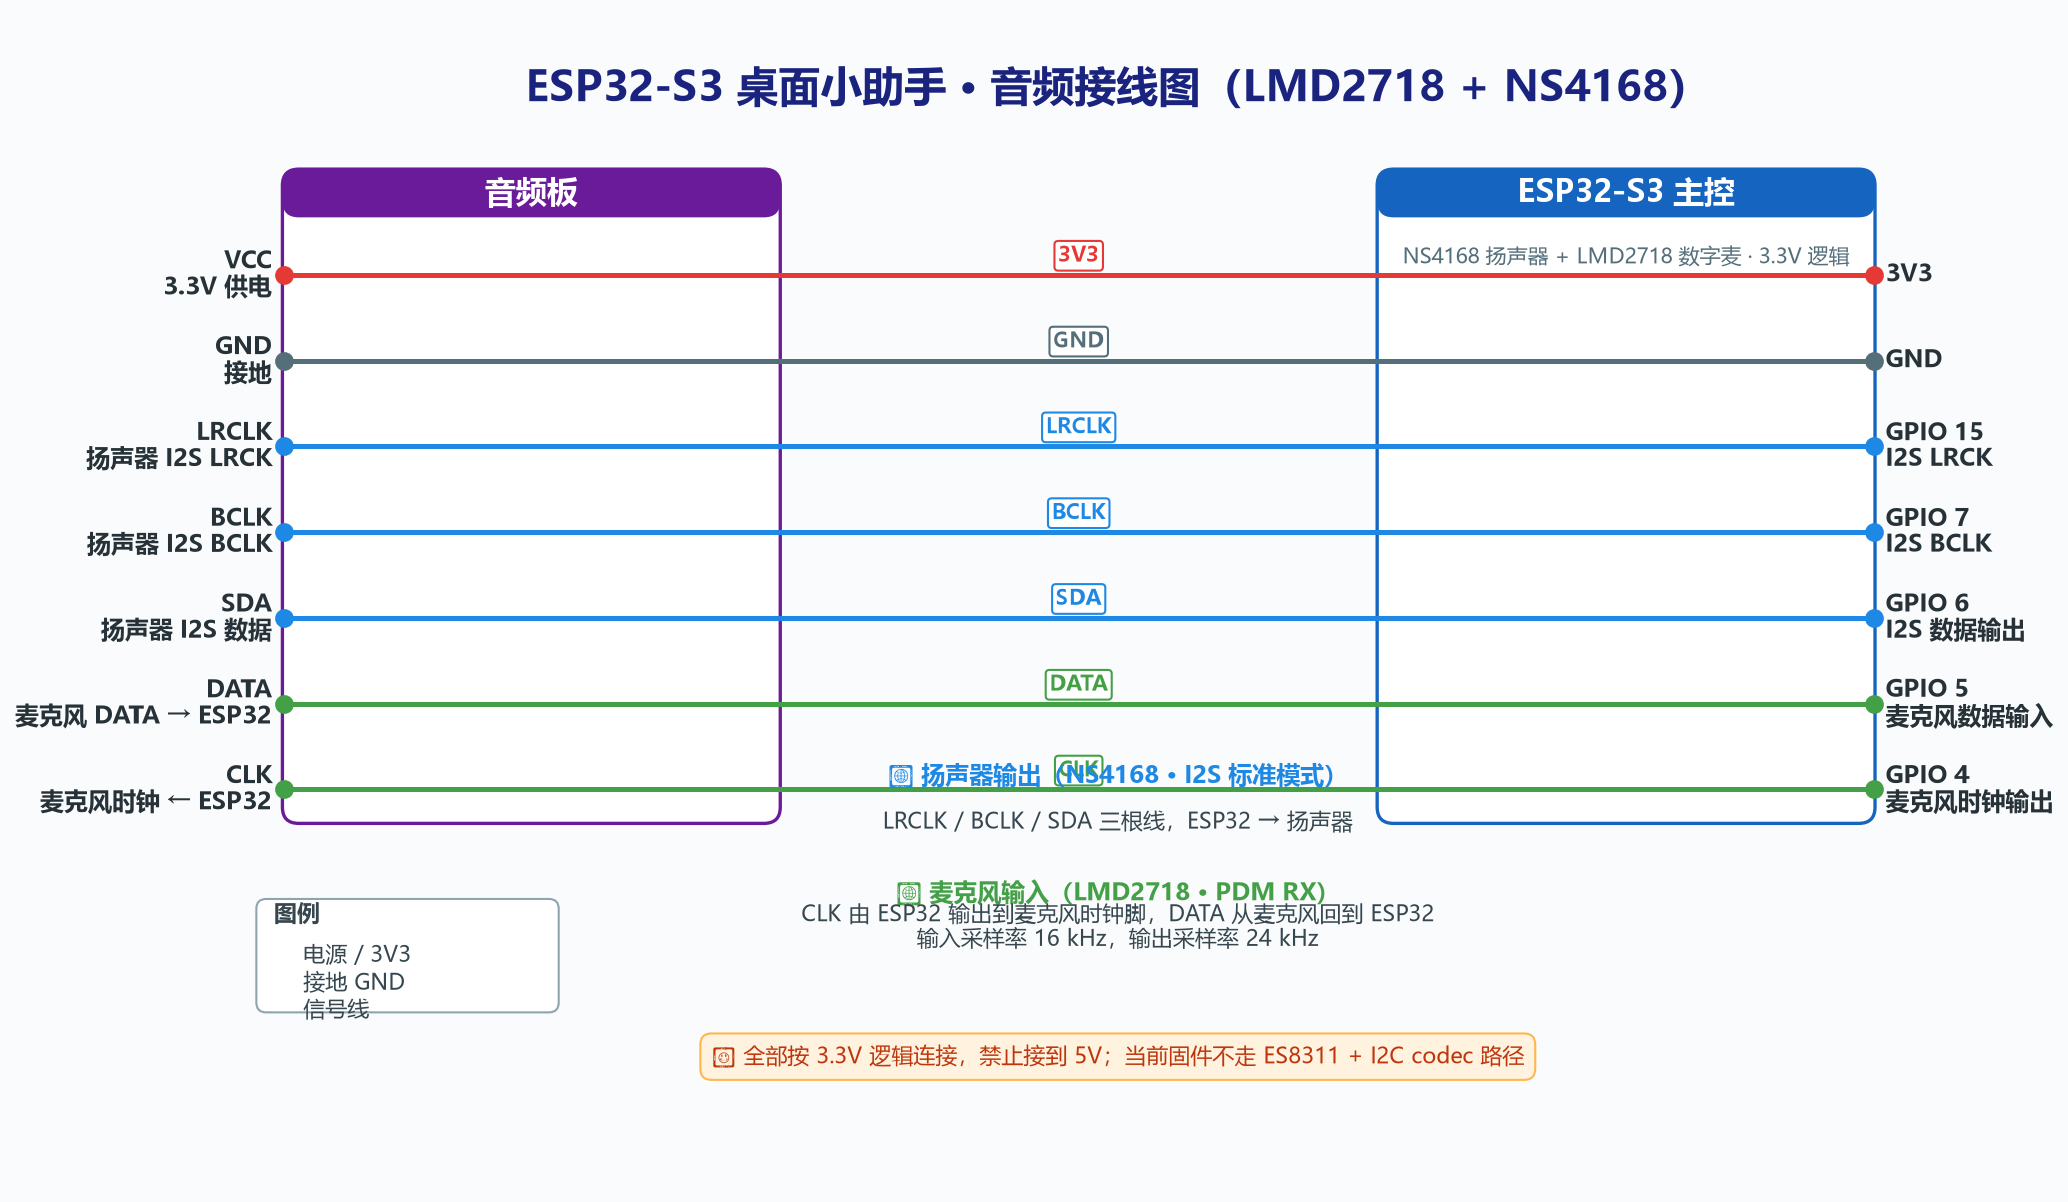
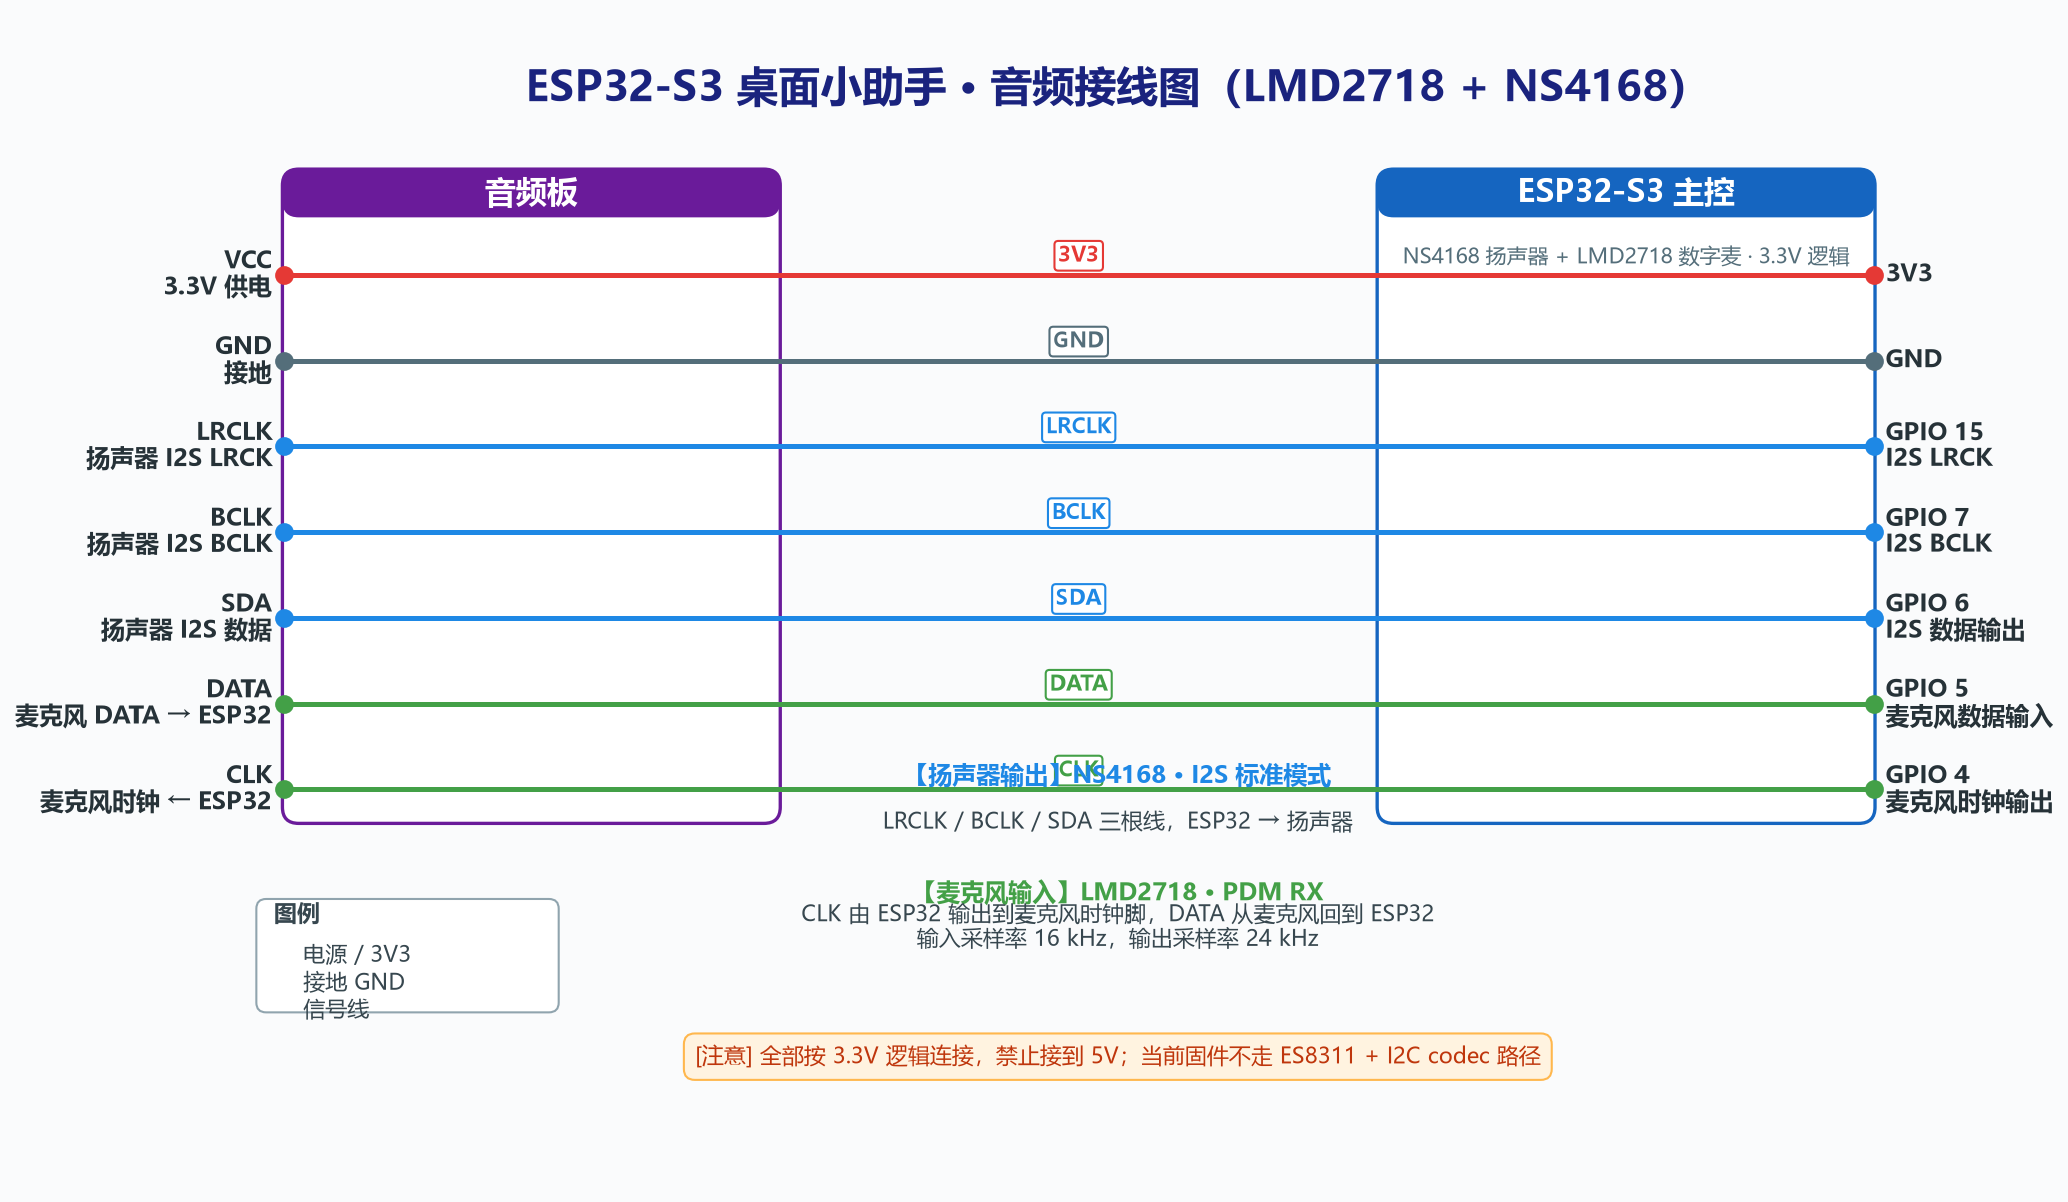
fix

Changed region(s): [[0.3095, 0.8619, 0.7737, 0.8927], [0.4333, 0.6156, 0.6499, 0.6772], [0.4333, 0.708, 0.6499, 0.7696]]

diff --git a/scripts/gen_esp32_wiring.py b/scripts/gen_esp32_wiring.py
@@ -220,7 +220,7 @@ def gen_screen_wiring():
 
     # NC 说明框
     ax.text(14, 2.6,
-            "⚠ LCD RST / LCD BL / TP RST / TP INT 当前硬件未引出：\n"
+            "[注意] LCD RST / LCD BL / TP RST / TP INT 当前硬件未引出：\n"
             "  • LCD 走软件复位，BL 背光直连 3V3 常亮\n"
             "  • TP 用轮询模式读坐标，不需要 INT 中断脚",
             ha="center", va="center", fontsize=10.5, color="#BF360C",
@@ -298,12 +298,12 @@ def gen_audio_wiring():
                   label=txt, lw=2.4)
 
     # 方向分组说明
-    ax.text(14, 6.2, "🔊 扬声器输出（NS4168 · I2S 标准模式）",
+    ax.text(14, 6.2, "【扬声器输出】NS4168 · I2S 标准模式",
             ha="center", fontsize=11.5, fontweight="bold", color=COL_SIG)
     ax.text(14, 5.5, "LRCLK / BCLK / SDA 三根线，ESP32 → 扬声器",
             ha="center", fontsize=10.5, color="#37474F")
 
-    ax.text(14, 4.4, "🎙 麦克风输入（LMD2718 · PDM RX）",
+    ax.text(14, 4.4, "【麦克风输入】LMD2718 · PDM RX",
             ha="center", fontsize=11.5, fontweight="bold", color=COL_SIG2)
     ax.text(14, 3.7,
             "CLK 由 ESP32 输出到麦克风时钟脚，DATA 从麦克风回到 ESP32\n"
@@ -311,7 +311,7 @@ def gen_audio_wiring():
             ha="center", fontsize=10.5, color="#37474F")
 
     ax.text(14, 2.0,
-            "⚠ 全部按 3.3V 逻辑连接，禁止接到 5V；当前固件不走 ES8311 + I2C codec 路径",
+            "[注意] 全部按 3.3V 逻辑连接，禁止接到 5V；当前固件不走 ES8311 + I2C codec 路径",
             ha="center", va="center", fontsize=10.5, color="#BF360C",
             bbox=dict(boxstyle="round,pad=0.5", fc="#FFF3E0", ec="#FFB74D"))
 
